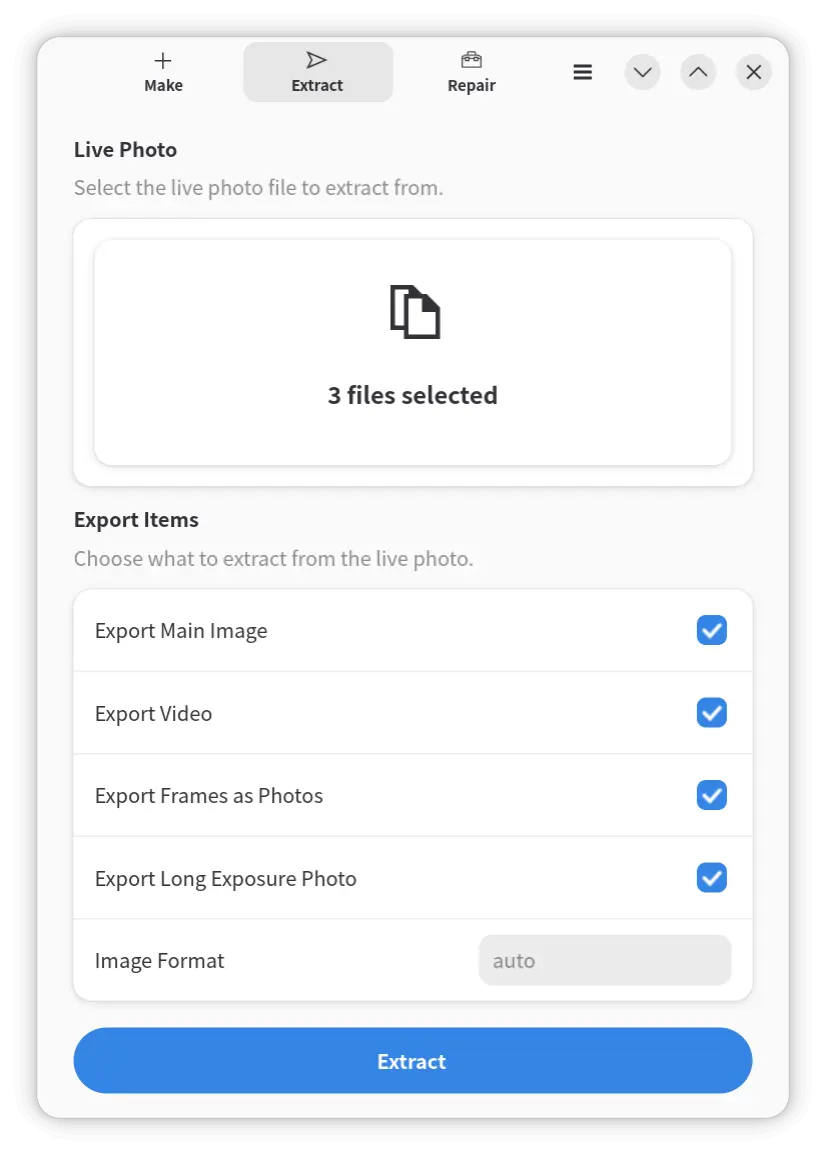
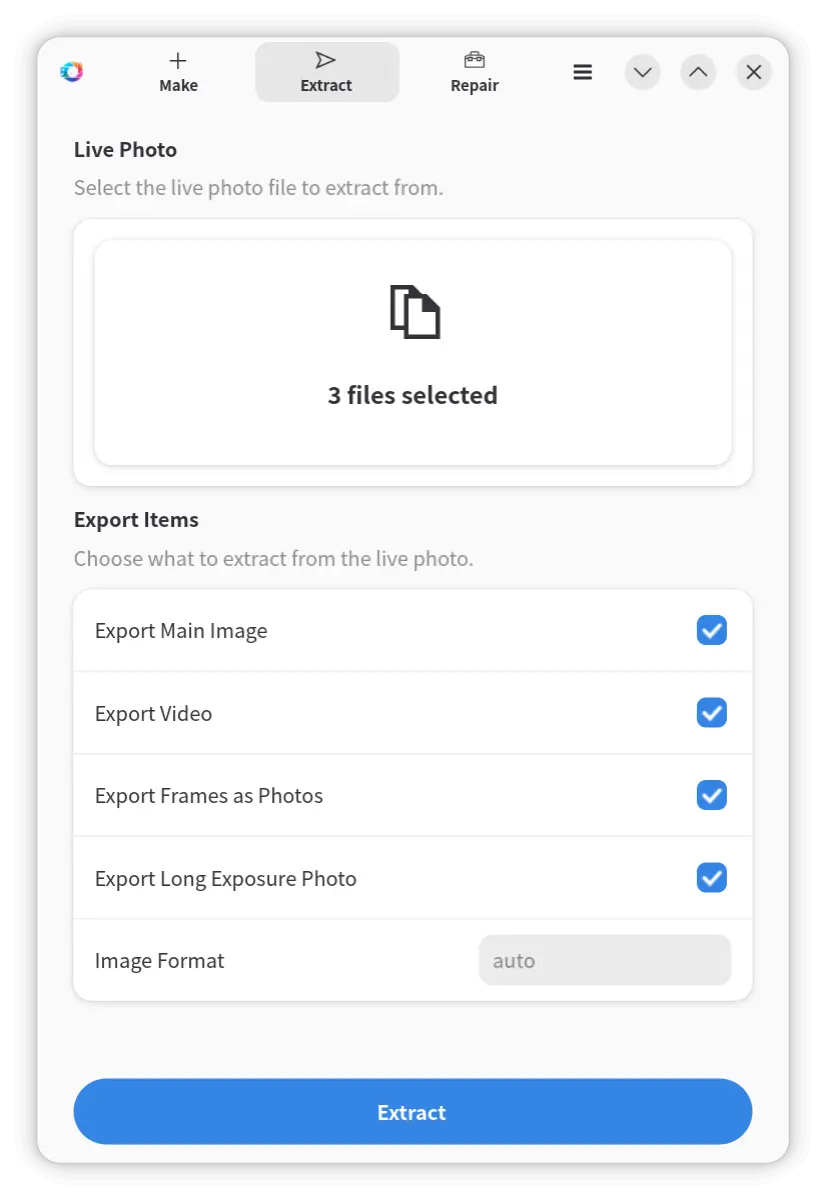
docs: simplify dependency lists and update GUI screenshots

diff --git a/README.md b/README.md
@@ -89,37 +89,17 @@ flatpak run com.github.wszqkzqk.live-photo-conv
 ### Dependencies
 
 * Build Dependencies
-  * Meson
-  * Vala
-  * GExiv2
-  * GTK4 (optional, for the GUI)
-  * LibAdwaita (optional, for the GUI)
-  * GStreamer (optional, used for exporting images from attached videos, otherwise FFmpeg commands are used)
-    * `gstreamer`
-    * `gst-plugins-base-libs`
-  * gdk-pixbuf2 (optional, used for exporting images from attached videos, otherwise FFmpeg commands are used)
-  * gobject-introspection (optional, used for generating GObject Introspection information)
+  * Meson, Vala, GExiv2
+  * GTK4, LibAdwaita (optional, for the GUI)
+  * GStreamer (`gstreamer`, `gst-plugins-base-libs`) — optional, for exporting images from videos; FFmpeg used otherwise
+  * gdk-pixbuf2 — optional, same as above
+  * gobject-introspection — optional, for generating GObject Introspection data
 * Runtime Dependencies
-  * GLib
-    * GObject
-    * GIO
-  * GExiv2
-  * GTK4 (required by the GUI)
-  * LibAdwaita (required by the GUI)
-  * GStreamer (required when built with GStreamer support)
-    * `gstreamer`
-    * `gst-plugins-base-libs`
-    * `gst-plugins-good`
-    * `gst-plugins-bad`
-    * `gst-plugin-va` (optional, for hardware acceleration)
-  * gdk-pixbuf2 (required when built with GStreamer support)
-    * `gdk-pixbuf2`
-    * To support more export formats, you can install optional dependencies such as:
-      * `libavif`: .avif
-      * `libheif`: .heif, .heic, and .avif
-      * `libjxl`: .jxl
-      * `webp-pixbuf-loader`: .webp
-  * FFmpeg (optional, required when not built with GStreamer support and need to export images from attached videos)
+  * GLib (GObject, GIO), GExiv2
+  * GTK4, LibAdwaita (required by the GUI)
+  * GStreamer (`gstreamer`, `gst-plugins-base-libs`, `gst-plugins-good`, `gst-plugins-bad`) — required when built with GStreamer; `gst-plugin-va` optional, for hardware acceleration
+  * gdk-pixbuf2 — required when built with GStreamer; optional format loaders: `libavif` (.avif), `libheif` (.heif/.heic/.avif), `libjxl` (.jxl), `webp-pixbuf-loader` (.webp)
+  * FFmpeg — optional, required when not built with GStreamer and need to export images from videos
 
 For example, to install dependencies on Arch Linux:
 

diff --git a/README-zh.md b/README-zh.md
@@ -89,37 +89,17 @@ flatpak run com.github.wszqkzqk.live-photo-conv
 ### 依赖
 
 * 构建依赖
-  * Meson
-  * Vala
-  * GExiv2
-  * GTK4（可选，用于 GUI）
-  * LibAdwaita（可选，用于 GUI）
-  * GStreamer (可选，用于从附加视频导出图片，如果没有则使用FFmpeg命令来实现)
-    * `gstreamer`
-    * `gst-plugins-base-libs`
-  * gdk-pixbuf2 (可选，用于从附加视频导出图片，如果没有则使用FFmpeg命令来实现)
-  * gobject-introspection (可选，用于生成GObject Introspection信息)
+  * Meson、Vala、GExiv2
+  * GTK4、LibAdwaita（可选，GUI 需要）
+  * GStreamer（`gstreamer`, `gst-plugins-base-libs`）— 可选，用于从视频导出图片，否则使用 FFmpeg
+  * gdk-pixbuf2 — 可选，同上
+  * gobject-introspection — 可选，用于生成 GObject Introspection 信息
 * 运行依赖
-  * GLib
-    * GObject
-    * GIO
-  * GExiv2
-  * GTK4（GUI 需要）
-  * LibAdwaita（GUI 需要）
-  * GStreamer （在针对GStreamer构建时需要）
-    * `gstreamer`
-    * `gst-plugins-base-libs`
-    * `gst-plugins-good`
-    * `gst-plugins-bad`
-    * `gst-plugin-va` （可选，用于硬件加速）
-  * gdk-pixbuf2 （在针对GStreamer构建时需要）
-    * `gdk-pixbuf2`
-    * 如果想要支持更多导出格式，可以安装可选依赖，例如：
-      * `libavif`: .avif
-      * `libheif`: .heif, .heic, and .avif
-      * `libjxl`: .jxl
-      * `webp-pixbuf-loader`: .webp
-  * FFmpeg （可选，在没有针对GStreamer构建且需要从附加视频导出图片时需要）
+  * GLib（GObject, GIO）、GExiv2
+  * GTK4、LibAdwaita（GUI 需要）
+  * GStreamer（`gstreamer`, `gst-plugins-base-libs`, `gst-plugins-good`, `gst-plugins-bad`）— GStreamer 构建时需要；`gst-plugin-va` 可选，用于硬件加速
+  * gdk-pixbuf2 — GStreamer 构建时需要；可选格式加载器：`libavif` (.avif)、`libheif` (.heif/.heic/.avif)、`libjxl` (.jxl)、`webp-pixbuf-loader` (.webp)
+  * FFmpeg — 可选，未使用 GStreamer 构建时从视频导出图片需要
 
 例如，在Arch Linux上安装依赖：
 
